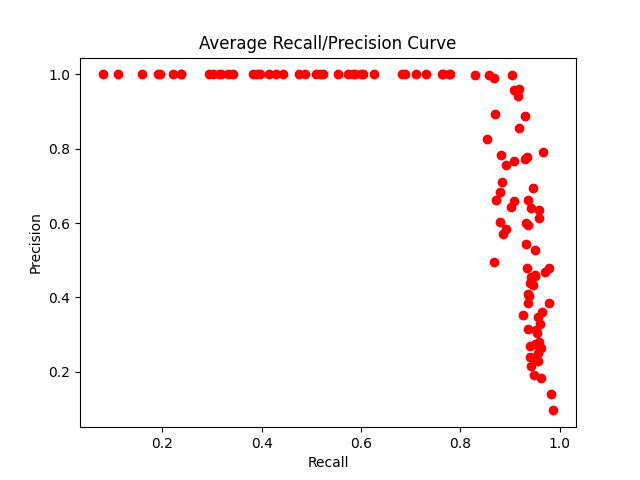
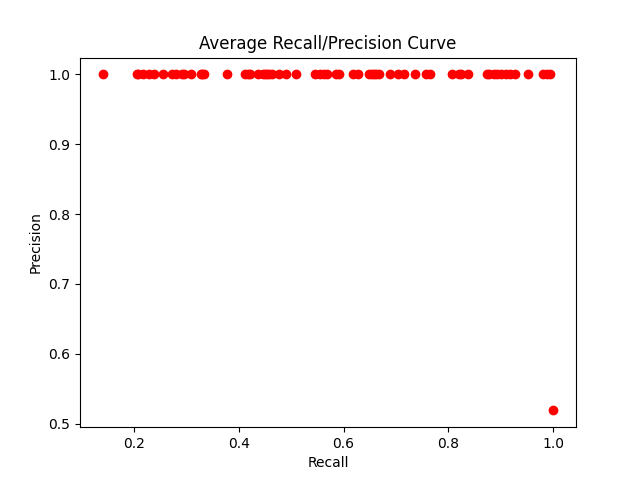
Update analyze_performance.py

diff --git a/analyze_performance.py b/analyze_performance.py
@@ -17,7 +17,7 @@ class JokeEnginePerformanceAnalyzer:
 
     def __init__(self):
         self.inverted_index = self.get_jokes()
-        self.queries = ["dog", "college", "computers", "animals", "football", "sports", "family", "country", "phone", "ball", "flag", "funny", "sad", "tired", "school", "anime", "cow", "study", "dance", "music", "wheels", "bus", "elephant", "girl", "boy"]
+        self.queries = ["dog", "college", "computers", "animals", "football", "sports", "family", "country", "phone", "ball", "flag", "funny", "sad", "tired", "school", "anime", "cow", "study", "dance", "music", "wheels", "bus", "elephant", "girl", "boy", "i'm tired of studying", "peanuts are tasty", "airplanes are scary", "i hate exams", "beans are gassy", "my daughter is sassy", "bollywood movies", "the quick brown fox jumped over the lazy dog"]
         self.relevances = []
         self.joke_engine = JokeEngineDriver()
         self.precision_recall_points = []
@@ -25,7 +25,7 @@ class JokeEnginePerformanceAnalyzer:
     def run(self):
         self.compute_query_and_joke_relevances()
         self.compute_precision_and_recall_points()
-        self.plot_precision_recall_curve()
+        # self.plot_precision_recall_curve()
 
     def get_jokes(self):
         with open("joke_data.json", "r") as ii_file:
@@ -36,20 +36,21 @@ class JokeEnginePerformanceAnalyzer:
         for query in self.queries:
             query_tokens = preprocess(query)
             query_weights = self.joke_engine.get_query_weights(query_tokens)
-            jokes = self.joke_engine.compute_similarity_scores(query_weights, self.inverted_index[:])[0]
+            jokes, max_similarity_score = self.joke_engine.compute_similarity_scores(query_weights, self.inverted_index[:])
             
             query_relevances = {}
             num_relevant = 0
 
             for joke in jokes:
-                if joke["similarity_score"] >= 0.1:
+                similarity_funniness_weighted_average = self.joke_engine.get_similarity_and_funniness_weighted_average(joke["similarity_score"], joke["funniness_score"], max_similarity_score)
+                if similarity_funniness_weighted_average >= 0.5:
                     query_relevances[joke["joke_id"]] = True
                     num_relevant += 1
                 else:
                     query_relevances[joke["joke_id"]] = False
 
             query_relevances["num_relevant"] = num_relevant
-            # print(num_relevant)
+            # print(query + " " + str(num_relevant))
 
             self.relevances.append(query_relevances)
         
@@ -61,7 +62,8 @@ class JokeEnginePerformanceAnalyzer:
         for query in self.queries:
             query_tokens = preprocess(query)
             
-            rank_cutoffs = [500, 1000, 1500, 2000, 2500]
+            rank_cutoffs = [50, 100, 150, 200, 250]
+            # rank_cutoffs = [5]
 
             for rank_cutoff in rank_cutoffs:
                 top_jokes = self.joke_engine.get_initial_top_jokes(query_tokens, rank_cutoff)[0]
@@ -70,18 +72,17 @@ class JokeEnginePerformanceAnalyzer:
                 for joke in top_jokes:
                     if self.relevances[query_index][joke["joke_id"]]:
                         num_relevant += 1
-
                 precision_recall_points.append((round(num_relevant / self.relevances[query_index]["num_relevant"], 4), num_relevant / rank_cutoff))
 
             query_index += 1
 
         precision_recall_dict = {}
 
-        for pair in precision_recall_points:
-            if pair[0] in precision_recall_dict:
-                precision_recall_dict[pair[0]].append(pair[1])
-            else:
-                precision_recall_dict[pair[0]] = [pair[1]]
+        for recall, precision in precision_recall_points:
+            # print(str(recall) + " " + str(precision))
+            if recall not in precision_recall_dict:
+                precision_recall_dict[recall] = []
+            precision_recall_dict[recall].append(precision)
 
         for recall, precisions in precision_recall_dict.items():
             self.precision_recall_points.append((recall, sum(precisions) / len(precisions)))

diff --git a/joke_engine.py b/joke_engine.py
@@ -117,7 +117,6 @@ class JokeEngineDriver:
         return query_weights
 
     def get_initial_top_jokes(self, query_tokens, num_jokes):
-        initial_top_jokes = None
         query_weights = self.get_query_weights(query_tokens)
         sorted_jokes = self.get_sorted_jokes(query_weights)
         initial_top_jokes = []
